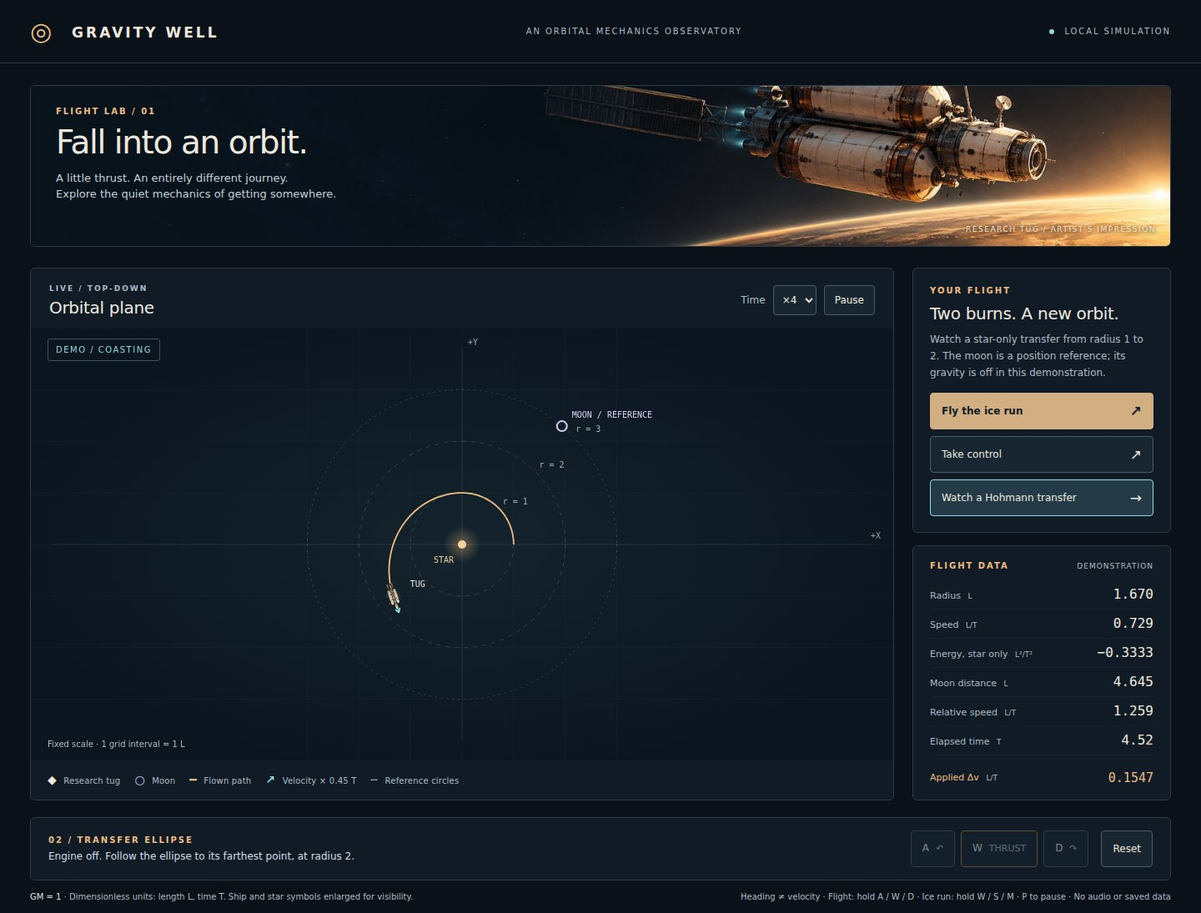
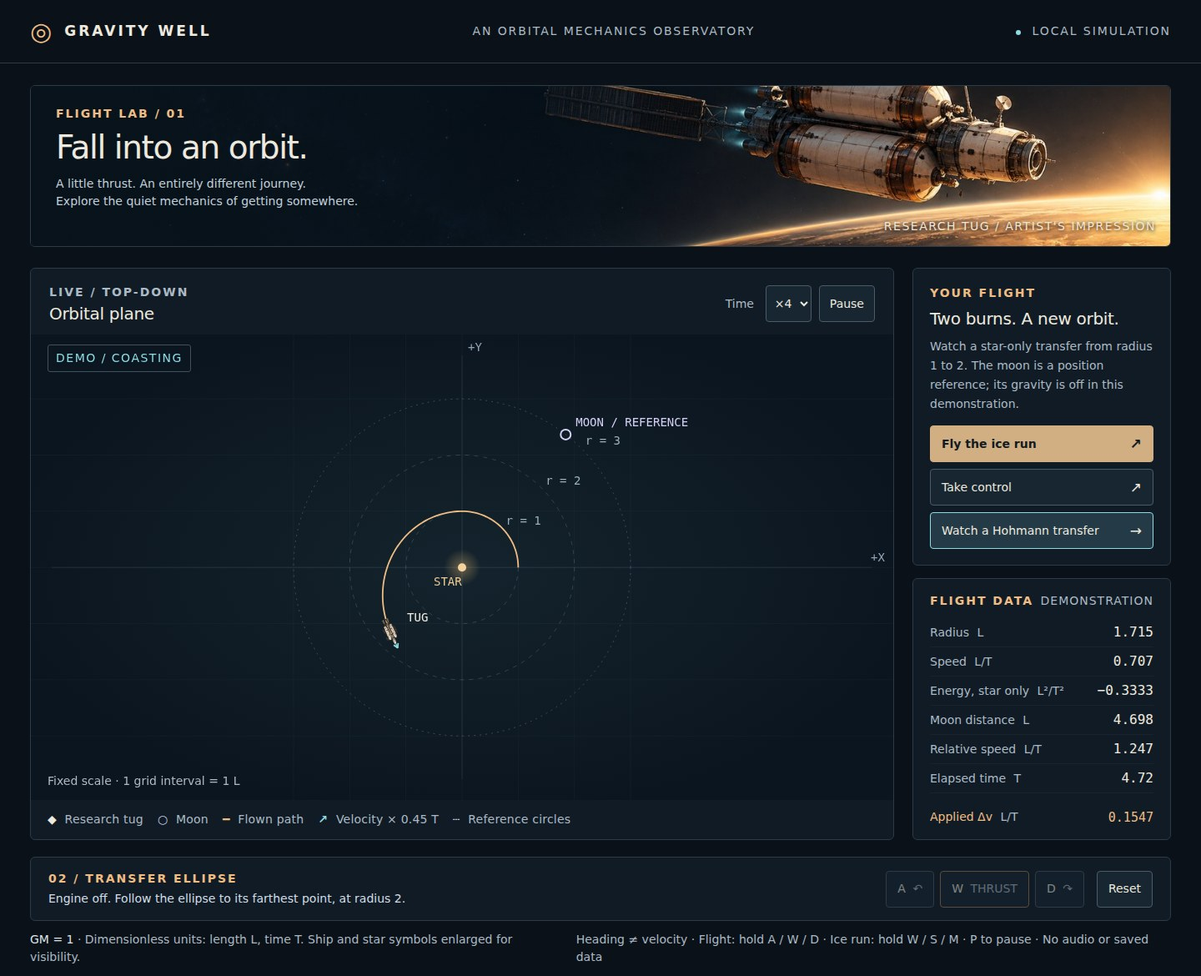
Touch play on phones: 14 px words, 44 px targets, plot over half the screen, __tmGate hook
- Every visible word >= 14 CSS px (canvas labels too) and every target >= 44 x 44 on
  portrait 375 x 812 and landscape 812 x 375; phone layouts put the plot first with
  the controls under it (upright) or beside it (sideways).
- A welcome card on the plot starts the ice run with one tap; scene answers stay
  pinned to the bottom of the panel.
- window.__tmGate (scene, goal, objective, hint); docs/requirements.md and docs/design.md.
- C sources and docs/narrative unchanged; screenshots re-captured by make smoke.

diff --git a/web/style.css b/web/style.css
@@ -1,19 +1,19 @@
 :root{color-scheme:dark;--bg:#0a1118;--panel:#101b25;--line:#2c3b46;--text:#eee9df;--muted:#acbac5;--cyan:#8ddbe3;--amber:#efbd84}
-*{box-sizing:border-box}body{margin:0;background:var(--bg);color:var(--text);font:14px/1.5 system-ui,sans-serif}button,select{font:inherit}button,select{border:1px solid #4b5c69;background:#172631;color:var(--text);border-radius:4px;min-height:44px;padding:8px 13px}button{cursor:pointer}button:hover{background:#243a47;border-color:var(--cyan)}button:disabled{opacity:.5;cursor:wait}button:focus-visible,select:focus-visible,a:focus-visible{outline:3px solid var(--amber);outline-offset:3px}button[aria-pressed=true]{background:#3b5860;border-color:var(--cyan)}.masthead{max-width:1440px;margin:auto;height:76px;padding:0 36px;display:flex;align-items:center;justify-content:space-between;gap:20px;border-bottom:1px solid var(--line)}.wordmark{font-size:17px;font-weight:750;letter-spacing:3px;color:var(--text);text-decoration:none;white-space:nowrap}.mark{color:var(--amber);font-size:30px;vertical-align:-3px;margin-right:12px}.mastnote,.local{font-size:10px;letter-spacing:1.9px;color:var(--muted)}.local{white-space:nowrap}.local i{display:inline-block;width:6px;height:6px;background:var(--cyan);border-radius:50%;margin-right:7px}main{max-width:1440px;margin:auto;padding:26px 36px 12px}.hero{height:194px;position:relative;overflow:hidden;margin-bottom:25px;border:1px solid var(--line);border-radius:6px;background:#07131e}.hero>img{width:100%;height:100%;object-fit:cover;object-position:70% 48%}.hero:after{content:"";position:absolute;inset:0;background:linear-gradient(90deg,#09131cf2 5%,#09131cc4 34%,transparent 65%)}.hero-copy{position:absolute;z-index:1;top:23px;left:30px}.eyebrow{color:var(--amber);letter-spacing:2px;font-size:10px;font-weight:650;margin:0 0 8px}h1{font-weight:450;letter-spacing:-1.4px;font-size:39px;line-height:1.15;margin:0 0 10px}.hero-copy>p:last-child{margin:0;color:#c2d0db;font-size:13px}.art-caption{position:absolute;right:17px;bottom:13px;font-size:9px;letter-spacing:1.5px;color:#f2e5d3;z-index:1;text-shadow:0 1px 5px #000}.workspace{display:grid;grid-template-columns:minmax(0,1fr) 310px;gap:22px}.panel{border:1px solid var(--line);border-radius:6px;background:var(--panel)}h2{font-size:20px;font-weight:500;letter-spacing:-.3px;line-height:1.2;margin:0}.panel-top{padding:18px 22px 13px;display:flex;justify-content:space-between;align-items:center;gap:10px}.panel-top .eyebrow{font-size:9px;margin-bottom:3px;color:var(--muted)}.chart-options{display:flex;align-items:center;gap:9px;font-size:12px}.chart-options label{color:var(--muted)}.chart-options select{padding:6px;min-height:36px}.chart-options button{min-height:36px;padding:6px 12px}.plot{position:relative;height:350px;background:radial-gradient(ellipse at center,#14232d,#0b151f 75%);overflow:hidden}canvas{width:100%;height:100%;display:block}#plot-note{position:absolute;left:20px;bottom:12px;color:var(--muted);font-size:10px}#status{position:absolute;left:20px;top:12px;max-width:85%;font-size:10px;letter-spacing:1.5px;text-transform:uppercase;border:1px solid #40505c;border-radius:3px;background:#0c1720dd;padding:5px 9px;color:var(--cyan)}#status[data-state=burn]{color:#ffce98;border-color:#ad7e46}#status[data-state=stop]{color:#ffcca9;border-color:#a87760}.legend{display:flex;flex-wrap:wrap;gap:9px 17px;padding:13px 20px;color:var(--muted);font-size:10px;letter-spacing:.2px}.key{font-size:14px;margin-right:5px}.ship-key{color:var(--text)}.moon-key,.reference-key{color:#c3c7e7}.trail-key{color:var(--amber)}.velocity-key{color:var(--cyan)}.sidebar{display:flex;flex-direction:column;gap:15px}.mission{padding:19px 20px}.mission>p:not(.eyebrow){font-size:12px;line-height:1.65;color:var(--muted);margin:10px 0 14px}.mission-buttons{display:flex;flex-direction:column;gap:8px}.mission-buttons button{font-size:12px;text-align:left;display:flex;justify-content:space-between;align-items:center}.mission-buttons .primary{background:#d2af83;border-color:#d2af83;color:#111b23;font-weight:650}.primary:hover{background:#edc795}.mission-buttons button span{font-size:17px}.telemetry{padding:16px 20px;flex:1}.telemetry-title{display:flex;justify-content:space-between;align-items:baseline}.telemetry-title>span{font-size:9px;letter-spacing:1px;color:var(--muted)}dl{margin:2px 0 10px}dl>div{display:flex;align-items:baseline;justify-content:space-between;padding:5px 0;border-bottom:1px solid #ffffff0a}dt{font-size:11px;color:var(--muted)}small{font-size:9px;color:var(--muted);margin-left:5px}dd{margin:0;font:16px/1.5 ui-monospace,monospace;font-variant-numeric:tabular-nums}.delta{padding-top:8px;display:flex;justify-content:space-between;align-items:center;font-size:11px;color:var(--amber)}output{font:15px ui-monospace,monospace}.flight-strip{display:flex;justify-content:space-between;align-items:center;gap:20px;margin-top:20px;padding:15px 21px}.flight-strip .eyebrow{margin-bottom:3px}.flight-strip p:last-child{font-size:12px;color:#d2dde6;margin:0}.controls{display:flex;gap:7px}.controls button{font-size:12px;min-width:44px;touch-action:none;user-select:none;-webkit-user-select:none}.controls span{margin-left:4px;color:var(--muted);font-size:11px}.controls .burn{border-color:#a87d4e}.controls .burn[aria-pressed=true]{background:#6c4a2e}.controls #reset{margin-left:8px}footer{display:flex;justify-content:space-between;gap:20px;color:var(--muted);font-size:10px;margin-top:12px}footer p{margin:0}footer strong{color:#dde3e9;font-weight:500}
-@media(min-width:1500px){.plot{height:420px}.hero{height:220px}}@media(max-width:1050px){.mastnote{display:none}main{padding:20px}.masthead{padding:0 20px}.workspace{grid-template-columns:minmax(0,1fr) 275px;gap:14px}.plot{height:370px}.hero-copy{left:22px}.legend{gap:5px 12px}.flight-strip{align-items:flex-start}.flight-strip>div:first-child{max-width:50%}footer{flex-direction:column;gap:5px}}@media(max-width:720px){.masthead{height:65px;padding:0 16px}.wordmark{font-size:13px;letter-spacing:2px}.local{font-size:8px;letter-spacing:.5px}.mark{margin-right:5px}main{padding:15px 12px}.hero{height:182px;margin-bottom:15px}.hero>img{object-position:64%}.hero-copy{top:23px;left:18px}.hero:after{background:linear-gradient(90deg,#09131cf0,#09131cb0 50%,#09131c44)}h1{font-size:32px}.hero-copy>p:last-child{font-size:11px}.art-caption{font-size:7px;right:10px;bottom:9px}.workspace{display:flex;flex-direction:column}.plot{height:340px}.panel-top{padding:14px}.panel-top h2{font-size:18px}.chart-options{gap:6px}.legend{padding:10px 13px;font-size:9px;gap:4px 12px}.sidebar{display:grid;grid-template-columns:1fr 1fr;gap:10px}.mission,.telemetry{padding:14px}.mission h2{font-size:17px}.mission>p:not(.eyebrow){font-size:11px}.mission-buttons button{padding:7px 9px;font-size:10px}.telemetry-title{display:block}.telemetry-title>span{display:none}dd{font-size:14px}dt{font-size:10px}small{font-size:8px;margin-left:2px}.flight-strip{flex-direction:column;padding:14px;gap:12px;margin-top:14px}.flight-strip>div:first-child{max-width:none}.controls{width:100%}.controls button{flex:1}.controls .burn{flex:2}.flight-strip p:last-child{font-size:11px}footer{font-size:9px}.eyebrow{font-size:9px}}
+*{box-sizing:border-box}body{margin:0;background:var(--bg);color:var(--text);font:14px/1.5 system-ui,sans-serif}button,select{font:inherit}button,select{border:1px solid #4b5c69;background:#172631;color:var(--text);border-radius:4px;min-height:44px;padding:8px 13px}button{cursor:pointer}button:hover{background:#243a47;border-color:var(--cyan)}button:disabled{opacity:.5;cursor:wait}button:focus-visible,select:focus-visible,a:focus-visible{outline:3px solid var(--amber);outline-offset:3px}button[aria-pressed=true]{background:#3b5860;border-color:var(--cyan)}.masthead{max-width:1440px;margin:auto;height:76px;padding:0 36px;display:flex;align-items:center;justify-content:space-between;gap:20px;border-bottom:1px solid var(--line)}.wordmark{font-size:17px;font-weight:750;letter-spacing:3px;color:var(--text);text-decoration:none;white-space:nowrap}.mark{color:var(--amber);font-size:30px;vertical-align:-3px;margin-right:12px}.mastnote,.local{font-size:14px;letter-spacing:1.9px;color:var(--muted)}.local{white-space:nowrap}.local i{display:inline-block;width:6px;height:6px;background:var(--cyan);border-radius:50%;margin-right:7px}main{max-width:1440px;margin:auto;padding:26px 36px 12px}.hero{height:194px;position:relative;overflow:hidden;margin-bottom:25px;border:1px solid var(--line);border-radius:6px;background:#07131e}.hero>img{width:100%;height:100%;object-fit:cover;object-position:70% 48%}.hero:after{content:"";position:absolute;inset:0;background:linear-gradient(90deg,#09131cf2 5%,#09131cc4 34%,transparent 65%)}.hero-copy{position:absolute;z-index:1;top:23px;left:30px}.eyebrow{color:var(--amber);letter-spacing:2px;font-size:14px;font-weight:650;margin:0 0 8px}h1{font-weight:450;letter-spacing:-1.4px;font-size:39px;line-height:1.15;margin:0 0 10px}.hero-copy>p:last-child{margin:0;color:#c2d0db;font-size:14px}.art-caption{position:absolute;right:17px;bottom:13px;font-size:14px;letter-spacing:1.5px;color:#f2e5d3;z-index:1;text-shadow:0 1px 5px #000}.workspace{display:grid;grid-template-columns:minmax(0,1fr) 310px;gap:22px}.panel{border:1px solid var(--line);border-radius:6px;background:var(--panel)}h2{font-size:20px;font-weight:500;letter-spacing:-.3px;line-height:1.2;margin:0}.panel-top{padding:18px 22px 13px;display:flex;justify-content:space-between;align-items:center;gap:10px}.panel-top .eyebrow{font-size:14px;margin-bottom:3px;color:var(--muted)}.chart-options{display:flex;align-items:center;gap:9px;font-size:14px}.chart-options label{color:var(--muted)}.chart-options select{padding:6px;min-height:36px}.chart-options button{min-height:36px;padding:6px 12px}.plot{position:relative;height:350px;background:radial-gradient(ellipse at center,#14232d,#0b151f 75%);overflow:hidden}canvas{width:100%;height:100%;display:block}#plot-note{position:absolute;left:20px;bottom:12px;color:var(--muted);font-size:14px}#status{position:absolute;left:20px;top:12px;max-width:85%;font-size:14px;letter-spacing:1.5px;text-transform:uppercase;border:1px solid #40505c;border-radius:3px;background:#0c1720dd;padding:5px 9px;color:var(--cyan)}#status[data-state=burn]{color:#ffce98;border-color:#ad7e46}#status[data-state=stop]{color:#ffcca9;border-color:#a87760}.legend{display:flex;flex-wrap:wrap;gap:9px 17px;padding:13px 20px;color:var(--muted);font-size:14px;letter-spacing:.2px}.key{font-size:14px;margin-right:5px}.ship-key{color:var(--text)}.moon-key,.reference-key{color:#c3c7e7}.trail-key{color:var(--amber)}.velocity-key{color:var(--cyan)}.sidebar{display:flex;flex-direction:column;gap:15px}.mission{padding:19px 20px}.mission>p:not(.eyebrow){font-size:14px;line-height:1.65;color:var(--muted);margin:10px 0 14px}.mission-buttons{display:flex;flex-direction:column;gap:8px}.mission-buttons button{font-size:14px;text-align:left;display:flex;justify-content:space-between;align-items:center}.mission-buttons .primary{background:#d2af83;border-color:#d2af83;color:#111b23;font-weight:650}.primary:hover{background:#edc795}.mission-buttons button span{font-size:17px}.telemetry{padding:16px 20px;flex:1}.telemetry-title{display:flex;justify-content:space-between;align-items:baseline}.telemetry-title>span{font-size:14px;letter-spacing:1px;color:var(--muted)}dl{margin:2px 0 10px}dl>div{display:flex;align-items:baseline;justify-content:space-between;padding:5px 0;border-bottom:1px solid #ffffff0a}dt{font-size:14px;color:var(--muted)}small{font-size:14px;color:var(--muted);margin-left:5px}dd{margin:0;font:16px/1.5 ui-monospace,monospace;font-variant-numeric:tabular-nums}.delta{padding-top:8px;display:flex;justify-content:space-between;align-items:center;font-size:14px;color:var(--amber)}output{font:15px ui-monospace,monospace}.flight-strip{display:flex;justify-content:space-between;align-items:center;gap:20px;margin-top:20px;padding:15px 21px}.flight-strip .eyebrow{margin-bottom:3px}.flight-strip p:last-child{font-size:14px;color:#d2dde6;margin:0}.controls{display:flex;gap:7px}.controls button{font-size:14px;min-width:44px;touch-action:none;user-select:none;-webkit-user-select:none}.controls span{margin-left:4px;color:var(--muted);font-size:14px}.controls .burn{border-color:#a87d4e}.controls .burn[aria-pressed=true]{background:#6c4a2e}.controls #reset{margin-left:8px}footer{display:flex;justify-content:space-between;gap:20px;color:var(--muted);font-size:14px;margin-top:12px}footer p{margin:0}footer strong{color:#dde3e9;font-weight:500}
+@media(min-width:1500px){.plot{height:420px}.hero{height:220px}}@media(max-width:1050px){.mastnote{display:none}main{padding:20px}.masthead{padding:0 20px}.workspace{grid-template-columns:minmax(0,1fr) 275px;gap:14px}.plot{height:370px}.hero-copy{left:22px}.legend{gap:5px 12px}.flight-strip{align-items:flex-start}.flight-strip>div:first-child{max-width:50%}footer{flex-direction:column;gap:5px}}@media(max-width:720px){.masthead{height:65px;padding:0 16px}.wordmark{font-size:14px;letter-spacing:2px}.local{font-size:14px;letter-spacing:.5px}.mark{margin-right:5px}main{padding:15px 12px}.hero{height:182px;margin-bottom:15px}.hero>img{object-position:64%}.hero-copy{top:23px;left:18px}.hero:after{background:linear-gradient(90deg,#09131cf0,#09131cb0 50%,#09131c44)}h1{font-size:32px}.hero-copy>p:last-child{font-size:14px}.art-caption{font-size:14px;right:10px;bottom:9px}.workspace{display:flex;flex-direction:column}.plot{height:340px}.panel-top{padding:14px}.panel-top h2{font-size:18px}.chart-options{gap:6px}.legend{padding:10px 13px;font-size:14px;gap:4px 12px}.sidebar{display:grid;grid-template-columns:1fr 1fr;gap:10px}.mission,.telemetry{padding:14px}.mission h2{font-size:17px}.mission>p:not(.eyebrow){font-size:14px}.mission-buttons button{padding:7px 9px;font-size:14px}.telemetry-title{display:block}.telemetry-title>span{display:none}dd{font-size:14px}dt{font-size:14px}small{font-size:14px;margin-left:2px}.flight-strip{flex-direction:column;padding:14px;gap:12px;margin-top:14px}.flight-strip>div:first-child{max-width:none}.controls{width:100%}.controls button{flex:1}.controls .burn{flex:2}.flight-strip p:last-child{font-size:14px}footer{font-size:14px}.eyebrow{font-size:14px}}
 /* Let the measured plot fill the height of the adjacent data panels. */
 .chart{display:flex;flex-direction:column}.plot{flex:1;min-height:350px}
 @media(max-width:720px){.plot{flex:none;min-height:340px}}
 /* The Ice Run: scenes, banner, fuel gauge, voyage controls. */
 .voyage-only{display:none}body[data-mode=voyage] .voyage-only{display:inline}body[data-mode=voyage] .flight-only{display:none}
 .target-key{color:#9fe0a8}.predicted-key{color:var(--cyan)}
-#banner{position:absolute;left:50%;top:44px;transform:translateX(-50%);font-size:12px;letter-spacing:1.6px;padding:6px 12px;border-radius:3px;border:1px solid #6f9a74;background:#0d1d16ee;color:#bfe9c4;white-space:nowrap}
+#banner{position:absolute;left:50%;top:44px;transform:translateX(-50%);font-size:14px;letter-spacing:1.6px;padding:6px 12px;border-radius:3px;border:1px solid #6f9a74;background:#0d1d16ee;color:#bfe9c4;white-space:nowrap}
 #banner[data-kind=fail]{border-color:#a87760;background:#22140fee;color:#ffcca9}
 #scene{position:absolute;inset:0;overflow-y:auto;padding:22px 26px;background:#0c1720f2;border-top:1px solid var(--line)}
 #scene h3{margin:0 0 12px;font-size:18px;font-weight:500;color:var(--amber)}
 #scene-text p{margin:0 0 10px;font-size:14px;line-height:1.55;max-width:62ch;color:#e6e1d6}
 #scene-text b{color:var(--cyan);font-weight:600;margin-right:4px}#scene-text .narration{color:var(--muted);font-style:italic}
-#scene-text .note{color:var(--muted);font-size:13px;border-left:2px solid var(--line);padding-left:10px}
+#scene-text .note{color:var(--muted);font-size:14px;border-left:2px solid var(--line);padding-left:10px}
 #scene-options{display:flex;flex-wrap:wrap;gap:8px;margin-top:6px}#scene-options button{font-size:14px;text-align:left}
 #scene-options .primary{background:#d2af83;border-color:#d2af83;color:#111b23;font-weight:650}
 /* Heavy scenes: a dark, still panel. No banner, no colour of success. */
@@ -23,5 +23,60 @@
 #fuel-row{position:relative}#fuel-row[data-red=true] dd,#fuel-row[data-red=true] dt{color:#ffb38a}
 .fuel-gauge{position:absolute;left:0;right:0;bottom:-1px;height:3px;background:#ffffff10}
 #fuel-bar{display:block;height:100%;width:50%;background:var(--cyan)}#fuel-row[data-red=true] #fuel-bar{background:#e07d52}
-@media(max-width:720px){#scene{padding:16px}#scene-text p{font-size:14px}#banner{font-size:11px;white-space:normal;max-width:90%}}
+@media(max-width:720px){#scene{padding:16px}#scene-text p{font-size:14px}#banner{font-size:14px;white-space:normal;max-width:90%}}
 .controls[hidden],#scene[hidden],#banner[hidden]{display:none}#scene{z-index:2}
+/* Every visible word is at least 14 CSS px and every touch target at least 44 x 44 CSS px on every screen
+ * (the playability gate measures phones upright 375 x 812 and sideways 812 x 375, touch only). */
+.chart-options label{display:inline-flex;align-items:center;justify-content:center;min-height:44px;min-width:44px}
+.chart-options select,.chart-options button{min-height:44px}
+#welcome{position:absolute;inset:0;z-index:3;overflow-y:auto;display:flex;flex-direction:column;justify-content:center;align-items:flex-start;padding:22px 26px;background:linear-gradient(90deg,#0b1620f5 30%,#0b1620cc)}
+#welcome[hidden]{display:none}
+#welcome h3{margin:0 0 8px;font-size:24px;font-weight:500;letter-spacing:-.3px}
+#welcome>p:not(.eyebrow){margin:0 0 14px;max-width:46ch;color:#d2dde6;font-size:15px;line-height:1.5}
+#welcome .welcome-more{color:var(--muted);font-size:14px;margin:12px 0 0}
+#welcome-start{background:#d2af83;border-color:#d2af83;color:#111b23;font-weight:650;font-size:16px;min-height:48px;padding:10px 20px}
+.masthead{flex-wrap:wrap;row-gap:2px}
+
+/* Phones held upright: masthead, the plot (more than half the screen), the controls right under it, then the rest. */
+@media(max-width:720px){
+  .masthead{height:auto;min-height:0;padding:8px 16px}.wordmark{font-size:15px}.mark{font-size:24px}
+  main{display:flex;flex-direction:column;padding:8px 0 12px}
+  .workspace{display:contents}
+  .chart{order:1;border-radius:0;border-left:0;border-right:0}
+  .flight-strip{order:2;margin:10px 12px 0;padding:12px}
+  .sidebar{order:3;margin:12px 12px 0;grid-template-columns:1fr}
+  .hero{order:4;margin:12px 12px 0}
+  footer{order:5;margin:12px 12px 0}
+  .panel-top{padding:6px 12px;flex-wrap:wrap}.panel-top .eyebrow{display:none}
+  .plot{height:60svh;min-height:400px}
+  #welcome{padding:18px 16px}#welcome h3{font-size:22px}
+  .legend{padding:8px 12px}
+  .flight-strip p:last-child,.mission>p:not(.eyebrow),.mission-buttons button,dt,.flight-strip .eyebrow{font-size:14px}
+}
+
+/* Phones held sideways: the plot on the left at the height of the screen, controls and data on the right. */
+@media(orientation:landscape) and (max-height:520px){
+  .masthead{height:auto;min-height:0;padding:4px 16px}.mastnote{display:none}.mark{font-size:22px}
+  main{display:grid;grid-template-columns:minmax(0,1fr) 280px;column-gap:12px;row-gap:10px;padding:6px 12px 12px;align-items:start}
+  .workspace{display:contents}
+  .chart{grid-column:1;grid-row:1 / span 3}
+  .flight-strip{grid-column:2;grid-row:1;margin:0;flex-direction:column;align-items:stretch;gap:8px;padding:10px}
+  .flight-strip>div:first-child{max-width:none}
+  .controls{flex-wrap:wrap}.controls button{flex:1}
+  .sidebar{grid-column:2;grid-row:2;display:flex}
+  .hero{grid-column:1 / -1;grid-row:4;margin:0}
+  footer{grid-column:1 / -1;grid-row:5;margin:0}
+  .panel-top{padding:4px 12px}.panel-top .eyebrow{display:none}.panel-top h2{font-size:16px}
+  .plot{height:calc(100svh - 60px);min-height:300px;flex:none}
+  .legend{padding:6px 12px}
+  #welcome{padding:12px 18px}#welcome h3{font-size:20px}#welcome>p:not(.eyebrow){margin-bottom:10px}
+}
+.wordmark{display:inline-flex;align-items:center;min-height:44px}
+@media(orientation:landscape) and (max-height:520px){main{grid-template-columns:minmax(0,1fr) 260px}.plot{height:calc(100svh - 56px)}}
+/* The answers stay in view at the bottom of the scene panel, however long the scene. */
+#scene{padding-bottom:0}
+#scene-options{position:sticky;bottom:0;padding:8px 0 14px;background:#0c1720f2}
+#scene.heavy #scene-options{background:#05080b}#scene.ending #scene-options{background:#0c1720}
+@media(orientation:landscape) and (max-height:520px){.controls button{flex:1 1 auto;padding:6px 8px}.controls #reset{margin-left:0}}
+@media(max-width:720px){.hero{height:260px}}
+@media(orientation:landscape) and (max-height:520px){.hero{height:230px}}

diff --git a/web/app.js b/web/app.js
@@ -82,6 +82,7 @@ function reflectControls() {
 }
 const finished = () => voyage ? state && state.leg >= 5 : Boolean(state?.status);
 function pause(value) {
+  if (!value) $('welcome').hidden = true;
   paused = value; accumulator = 0; clearControls();
   $('pause').textContent = finished() ? 'Complete' : paused ? 'Resume' : 'Pause';
   $('pause').disabled = finished();
@@ -236,7 +237,7 @@ function draw() {
     const offset=i*grid*scale;
     line(cx+offset,0,cx+offset,h,'#8fb6c20d'); line(0,cy+offset,w,cy+offset,'#8fb6c20d');
   }
-  ctx.font='10px ui-monospace,monospace'; ctx.fillStyle='#91a5b5';
+  ctx.font='14px ui-monospace,monospace'; ctx.fillStyle='#91a5b5';
   ctx.fillText('+Y',cx+7,20); ctx.fillText('+X',w-27,cy-7);
   line(cx,25,cx,h-25,'#7797a32c'); line(25,cy,w-25,cy,'#7797a32c');
   [1,2,3].forEach(r => {
@@ -353,9 +354,15 @@ controlButtons.forEach(button=>holdButton(button, button.dataset.control));
 voyageButtons.forEach(button=>holdButton(button, button.dataset.voyage));
 window.addEventListener('blur',()=>{if(engine)pause(true)});
 document.addEventListener('visibilitychange',()=>{if(document.hidden&&engine)pause(true)});
-$('voyage').onclick=()=>reset(2);
-$('pilot').onclick=()=>reset(0);
-$('demo').onclick=()=>reset(1);
+// On a short screen (a phone held sideways) bring the whole chart into view once a flight is chosen.
+const choose = mode => {
+  $('welcome').hidden = true; reset(mode);
+  if (innerHeight < 560) document.querySelector('.chart').scrollIntoView({block: 'start'});
+};
+$('voyage').onclick=()=>choose(2);
+$('welcome-start').onclick=()=>choose(2);
+$('pilot').onclick=()=>choose(0);
+$('demo').onclick=()=>choose(1);
 $('pause').onclick=()=>{if(!finished()&&!(voyage&&state.scene>=0))pause(!paused)};
 $('reset').onclick=()=>reset(voyage?2:state.mode,false);
 $('voyage-reset').onclick=()=>reset(2,false);
@@ -368,9 +375,38 @@ Object.defineProperty(window,'orbitView',{value:Object.freeze({get snapshot(){
     bannerShown:!$('banner').hidden,bannerText:$('banner').textContent,heavyLog:heavyLog.map(h=>({...h})),
     sceneText:$('scene').hidden?'':$('scene-text').textContent};
 }})});
+// Common test hook of the playability gate (TM-59 project-context, rules/playability.json). Read-only.
+// Logical units are the canvas's CSS pixels, so a point is (clientX - canvas.left, clientY - canvas.top).
+// DOM words and buttons are measured by the gate directly; the canvas labels are measured through fillText.
+function fromCanvas(el) {
+  if (!el || el.hidden || !el.getClientRects().length) return null;
+  const c = canvas.getBoundingClientRect(), r = el.getBoundingClientRect();
+  return {x: r.left + r.width / 2 - c.left, y: r.top + r.height / 2 - c.top};
+}
+window.__tmGate = {
+  version: 1,
+  get logical() { const r = canvas.getBoundingClientRect(); return {w: r.width || 1, h: r.height || 1}; },
+  scene: () => !state ? 'loading' : !$('welcome').hidden ? 'title'
+    : voyage && state.scene >= 0 ? `scene:${SCENES[state.scene].id}` : finished() ? 'done' : paused ? 'paused' : 'play',
+  // The first goal: the ice run's first conversation answered (Ilse's dock scene closed, the tug cast off).
+  goal: () => Boolean(voyage && state && (state.leg > 0 || (state.scene < 0 && state.count > 0))),
+  objective: () => $('mission-title').textContent,
+  texts: () => [],
+  targets: () => [],
+  // The run is a transfer between rings, not a walk: there is no screen direction to steer.
+  player: () => null,
+  // Where a player who reads the screen would tap next: the welcome card, the open scene's first answer, or Resume.
+  hint: () => {
+    if (!state) return null;
+    if (!$('welcome').hidden) return fromCanvas($('welcome-start'));
+    if (voyage && state.scene >= 0) return fromCanvas($('scene-options').firstChild);
+    if (paused && !finished()) return fromCanvas($('pause'));
+    return null;
+  },
+};
 Promise.resolve().then(()=>createOrbit()).then(module=>{
   engine=module;reset(0,false);
-  ['voyage','pilot','demo','pause','reset','voyage-reset'].forEach(id=>$(id).disabled=false);
+  ['voyage','welcome-start','pilot','demo','pause','reset','voyage-reset'].forEach(id=>$(id).disabled=false);
   requestAnimationFrame(frame);
 }).catch(()=>{
   $('status').dataset.state='stop';

diff --git a/web/index.html b/web/index.html
@@ -26,6 +26,7 @@
       <section class="chart panel" aria-labelledby="chart-title">
         <div class="panel-top"><div><p class="eyebrow">LIVE / TOP-DOWN</p><h2 id="chart-title">Orbital plane</h2></div><div class="chart-options"><label for="rate">Time</label><select id="rate"><option value="1">×1</option><option value="4">×4</option></select><button id="pause" disabled>Resume</button></div></div>
         <div class="plot"><canvas id="map" role="img" aria-label="Live orbital plot. Ship position and velocity are also reported in the flight data panel."></canvas><span id="plot-note">Fixed scale · 1 grid interval = 1 L</span><span id="status" role="status">Loading orbital engine…</span><span id="banner" hidden></span>
+          <section id="welcome" aria-labelledby="welcome-title"><p class="eyebrow">THE ICE RUN</p><h3 id="welcome-title">Carry the last ice out.</h3><p>Five legs around the star, from the inner dock to Lamp Quay. Hold RAISE or LOWER until the dashed orbit touches the green ring, coast to it, then hold MATCH.</p><button id="welcome-start" class="primary" disabled>Start the ice run</button><p class="welcome-more">Free flight and the Hohmann demonstration are under “Your flight”.</p></section>
           <section id="scene" hidden aria-labelledby="scene-title" aria-live="polite"><h3 id="scene-title"></h3><div id="scene-text"></div><div id="scene-options"></div></section></div>
         <div class="legend"><span><b class="key ship-key">◆</b> Research tug</span><span><b class="key moon-key">○</b> <span id="legend-moon">Moon</span></span><span><b class="key trail-key">━</b> Flown path</span><span><b class="key velocity-key">↗</b> Velocity × 0.45 T</span><span><b class="key reference-key">┄</b> Reference circles</span><span class="voyage-only"><b class="key target-key">┅</b> Target ring</span><span class="voyage-only"><b class="key predicted-key">┈</b> Orbit the gauges read</span></div>
       </section>

diff --git a/docs/design.md b/docs/design.md
@@ -1,0 +1,60 @@
+# 設計
+
+今のコードから起こした構成。JavaScript は描画と入力だけで、積分・物理量・物語の数値は C が持つ。
+
+## ファイルと責務
+
+| ファイル | 責務 |
+|---|---|
+| `src/orbit.c` / `orbit.h` | 物理の正典。星 GM=1、半径3の円軌道の月、テスト質量の船の積分 |
+| `src/flight.c` / `flight.h` | ブラウザーの手動航行(mode 0、星+月)と Hohmann 実演(mode 1、星のみ) |
+| `src/voyage.c` / `voyage.h` | The Ice Run。5区間の遷移、場面の発火、燃料・目標輪・表示の揺れ・救援の扱い |
+| `src/voyage_web.c` | WASM の窓口 `vw_reset` / `vw_tick` / `vw_answer` / `vw_value`(物語の効果は `VE_ALL` で全部有効) |
+| `src/main.c`・`render.c`・`svg.c`・`gif.c` | 端末表示、CSV/SVG、GIF 出力 |
+| `web/index.html`・`style.css`・`app.js` | 観測画面の配置、台詞(`SCENES`)、描画と入力 |
+| `tests/` | 単体テスト、物語の bench(`story_bench.c`)、人に近い自動操縦(`voyage_policy.h`) |
+| `scripts/smoke.cjs` | 実 WASM をキー・クリック・タッチで動かす検査と実画面の撮影 |
+
+## 画面の状態
+
+- 観測画面の上の案内(`#welcome`)は読み込み直後だけ出る。いずれかの航行を選ぶか Resume で消える。
+- モード: `reset(0)` 手動航行、`reset(1)` Hohmann 実演、`reset(2)` The Ice Run(`body[data-mode]` が `flight` / `voyage`)。
+- The Ice Run の場面は C の `VS_DOCK`〜`VS_QUAY`(0〜6)。場面が開くと飛行は止まり、`#scene` に台詞と選択肢を出す。
+  重い場面(ilse・silence)は暗い面で、区間完了の帯を出さない。選択肢は場面の下端に固定する。
+- 帯(`#banner`)は C の `VB_CLEAR`・`VB_TOW`・`VB_MISS`。場面が出ている間は隠す。
+
+## データ
+
+保存形式は無い(localStorage も使わない)。画面の値は C の `enum VoyageValue` / `enum FlightValue` の順に読む。
+
+## 入力
+
+| 操作 | キー | タッチ・マウス |
+|---|---|---|
+| 手動航行 回転・噴射 | A・D・W(矢印キーも可) | A・W THRUST・D のボタンを押し続ける |
+| Ice Run Raise / Lower / Match | W・S・M か Space | RAISE・LOWER・MATCH のボタンを押し続ける |
+| 一時停止 | P | Pause / Resume |
+| 場面の選択 | ― | 選択肢のボタン |
+
+指を離す・タッチが取り消される・窓がフォーカスを失うと、押している操作はすべて解除される。
+
+## 配置
+
+- 960 px 以上: 装飾画、観測画面と右のデータ欄、下に操作。
+- 縦持ち(幅 720 px 以下): 見出し、観測画面(画面の高さの 60%)、操作、データ、装飾画の順。
+- 横持ち(高さ 520 px 以下): 観測画面を左に画面の高さいっぱい、操作とデータを右の 260 px に。
+  航行を選ぶと観測画面の上端まで自動でスクロールする。
+- 文字は 14 CSS px 以上、押せる物は 44×44 CSS px 以上(canvas の目盛り・ラベルも 14 px)。
+
+## test hook
+
+- `window.orbitView.snapshot`: smoke 用の読み取り専用の状態。
+- `window.__tmGate`(遊べる門): `logical` は canvas の CSS 寸法、`scene()`(`title`・`scene:<id>`・`play`・`paused`・`done`)、
+  `goal()`(The Ice Run の最初の会話を閉じて出港した)、`objective()`、`hint()`(次に押す場所: 案内のボタン・場面の最初の選択肢・Resume)。
+  `texts`・`targets` は空(DOM と canvas の文字は門が直接測る)、`player()` は null(上下左右へ動かす操作が無い)。
+
+## 既知の限界
+
+- 船・月・星のラベルは位置が近いと重なる。
+- 実スマートフォン(Safari)・実 GPU・人間の初見試遊は未検証。
+- 物語の既知の不具合: flare の場面の直後に区間完了の帯が出る(#13)、beacon の燃料の効き目が赤ゲージの時間にしか出ない(#14)。

diff --git a/docs/requirements.md b/docs/requirements.md
@@ -1,0 +1,49 @@
+# 要件
+
+コード・テスト・bench の出力から起こした要件。数値は `src/`・`tests/`・`docs/narrative/` と遊べる門の実測による。
+
+## 誰が・どんな場面で・何を楽しむか
+
+- 軌道力学に興味がある人が、短い時間で「少しの噴射で行き先が大きく変わる」ことを手で確かめる。
+- The Ice Run(5区間・1回およそ40 T)では、燃料という限られた資源で円軌道から円軌道へ移る判断と、
+  内側の港に残る Ilse との別れの物語を一緒に体験する。
+- 手動航行(月との会合)と Hohmann 遷移の実演は、物語なしで物理を観察するためのモード。
+
+## 対応端末と入力
+
+| 端末 | 入力 | 内容 |
+|---|---|---|
+| PC | キーボード | 手動航行 A/D(回転)・W(噴射)。The Ice Run W(Raise)・S(Lower)・M か Space(Match)。P で一時停止 |
+| PC | マウス | 画面のボタンを押し続ける(Pointer Events) |
+| スマートフォン | タッチのみ | 観測画面の「Start the ice run」、場面の選択肢、Raise/Lower/Match のボタンを押し続ける |
+
+キーボードが無くても全モードを始めて、最後まで航行できる。保存機能・音・サーバー API は無い。
+
+## 受入条件
+
+### 物理と物語(`make test` / `make bench` / `make story-check`)
+
+- 軌道・保存則・GIF 往復・手動航行の一致・Hohmann の2噴射(第1噴射 Δv=0.154706、Web 実演の最終半径 2.000127)。
+- The Ice Run の場面順 dock → route → beacon → flare → ilse → silence → quay(12 seed)と両方の結末に届くこと。
+- 物語の数値(`[mech]`)、重い場面の静けさ(`[quiet]` ilse・silence)、2つの選択の得と損(`[choice]`)。
+- `docs/narrative/` の行が Debian 13 の再実行とバイト一致すること。
+
+### 遊べる門(iPhone 相当の縦 375×812・横 812×375・DPR 3・タッチのみ)
+
+| 項目 | 条件 |
+|---|---|
+| ① 読み込み | canvas か本文が出る |
+| ② タップで進行 | 最初の目標(The Ice Run の最初の会話を閉じて出港)に 25 秒以内 |
+| ③ console error | 縦・横とも 0 |
+| ④ 文字 | 描画される文字はすべて 14 CSS px 以上(canvas の目盛り・凡例・脚注を含む) |
+| ⑤ タップ対象 | すべて 44×44 CSS px 以上 |
+| ⑥ 縦横 | 横はみ出し 0、観測画面が画面の 50% 以上 |
+| ⑦ 向き | 対象外。操作は軌道の増速・減速で、画面上の上下左右へ動かす操作ではない |
+
+### 品質台帳
+
+配信先の品質基準のうち、人の確認が要る項目(文字・ボタンの読みやすさの目視など)は門の ○ で代えない。
+
+## 未検証
+
+人間の初見試遊、実スマートフォン(Safari)、各ブラウザー、実 GPU は未検証。公開配信はしていない。

diff --git a/README.md b/README.md
@@ -80,7 +80,15 @@ CI も `docker build .` で同じ環境を使う。
 
 ![第2噴射で半径2の円軌道へ移る](docs/images/circularized.jpg)
 
-![390px幅でも操作とデータを表示。実スマートフォンでの試遊は未検証](docs/images/mobile.jpg)
+### スマートフォン
+
+開くと観測画面の上に「Start the ice run」の案内が出る。タップだけで物語の航行を始められる。
+縦持ちは上から観測画面、操作ボタン、データ、装飾画の順に並べ、観測画面が画面の半分以上を占める。
+横持ちは観測画面を左に画面の高さいっぱいで置き、操作とデータを右に並べる。
+文字はすべて14 CSS px以上、押せる物はすべて44×44 CSS px以上にしている。
+場面の選択肢は場面の下端に固定し、長い場面でもスクロールせずに押せる。
+
+![390px幅の縦持ち。観測画面の下に操作ボタン。実スマートフォンでの試遊は未検証](docs/images/mobile.jpg)
 
 変更前の C レンダラーが生成した GIF の実フレーム。端末版と GIF 出力は現在も使える。
 
@@ -115,7 +123,8 @@ make smoke
 ```
 
 36項目成功、console error / 外部通信とも0件。The Ice Run を実キーと実クリックで両方の結末まで航行する検査を含む。
-WASM 17,055 B、原画込みの初期ダウンロード343,007 B。
+WASM 17,055 B、原画込みの初期ダウンロード349,448 B。
+要件は [docs/requirements.md](docs/requirements.md)、構成は [docs/design.md](docs/design.md)。
 詳細は [検証記録](docs/validation.md)、[機械記録](docs/validation.json)、[原画の生成指示と採否](docs/art-direction.md)。
 人間の初見試遊、実スマートフォン、各ブラウザーでの操作は未検証。公開配信は行っていない。
 

diff --git a/docs/validation.md b/docs/validation.md
@@ -8,7 +8,7 @@
 | `make story-check` | 3 ファイルを作り直してバイト一致 |
 | `make plots` | `docs/run.csv`・SVG 3 枚・`demo.gif` の差分 0(物理と従来出力は不変) |
 | `docker build .`(CI と同じ) | `make test` と `make plots` が成功 |
-| `make web` | WASM 17,055 B、7 ファイル合計 343,007 B |
+| `make web` | WASM 17,055 B、7 ファイル合計 349,448 B |
 | `make smoke` | 36 項目成功、page/console error 0、外部通信 0。The Ice Run を実キーで2回(遠い灯台・戻る / 近い灯台・向かう)航行し、7 場面の順・両方の結末・重い2場面で帯なしを確認。390px で場面の選択肢 44px 以上 |
 
 物語の点(`narrative-score.py`)は推定 0 → ビート表と bench の 3 ファイルで最悪 seed 93・中央値 93(目標 25)。
